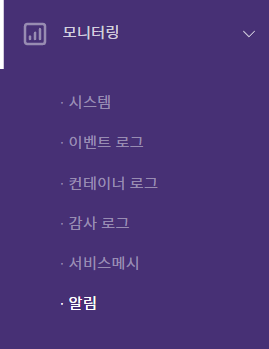
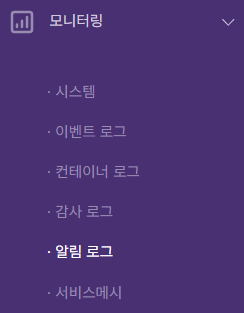
서비스 메시 그림 자료 및 알람로그쪽 수정

diff --git a/docs/monitoring/7_alert.md b/docs/monitoring/7_alert.md
@@ -25,13 +25,13 @@ Cluster
 ---
 
 ## 메뉴이동
-`모니터링` ➡ `알림`
+`모니터링` ➡ `알림로그`
 
 ![alert.png](/assets/images/monitoring/alert.png)
 
 ---
 
 ## 알림
-[모니터링] - [알림] 클릭시 확인할 수 있다. email 알림 과 slack 알림에 대한 총 발송 횟수 지표를 제공합니다.
+[모니터링] - [알림로그] 클릭시 확인할 수 있다. email 알림 과 slack 알림에 대한 총 발송 횟수 지표를 제공합니다.
 
 ![2_alarm.png](/assets/images/monitoring/2_alarm.png)
